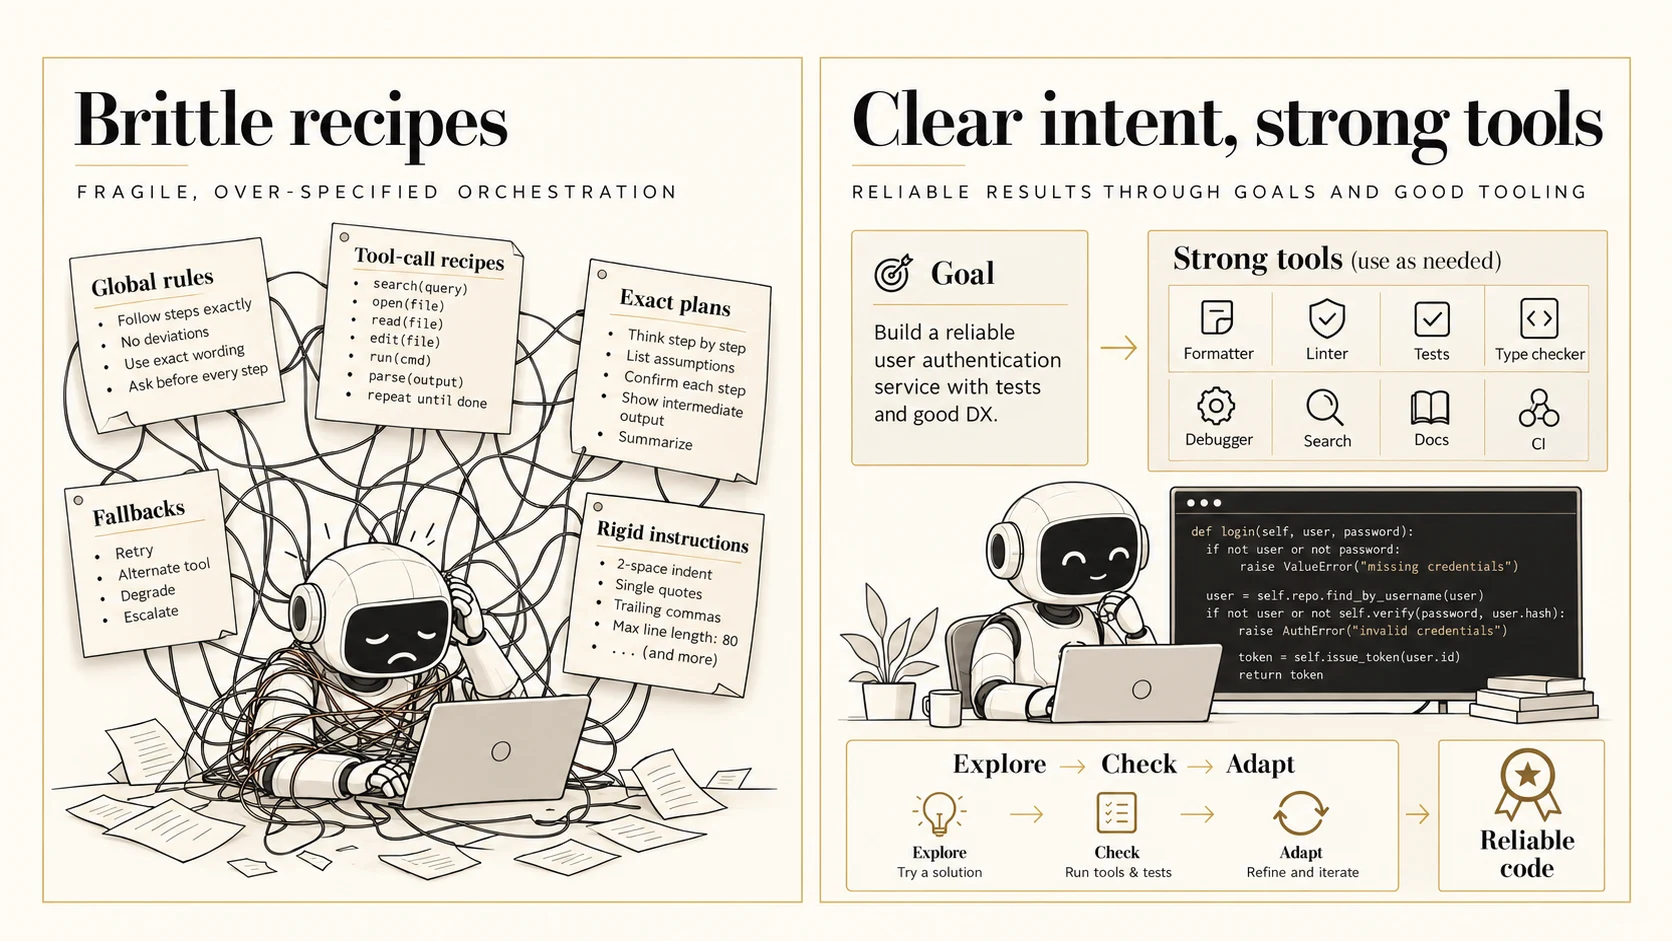
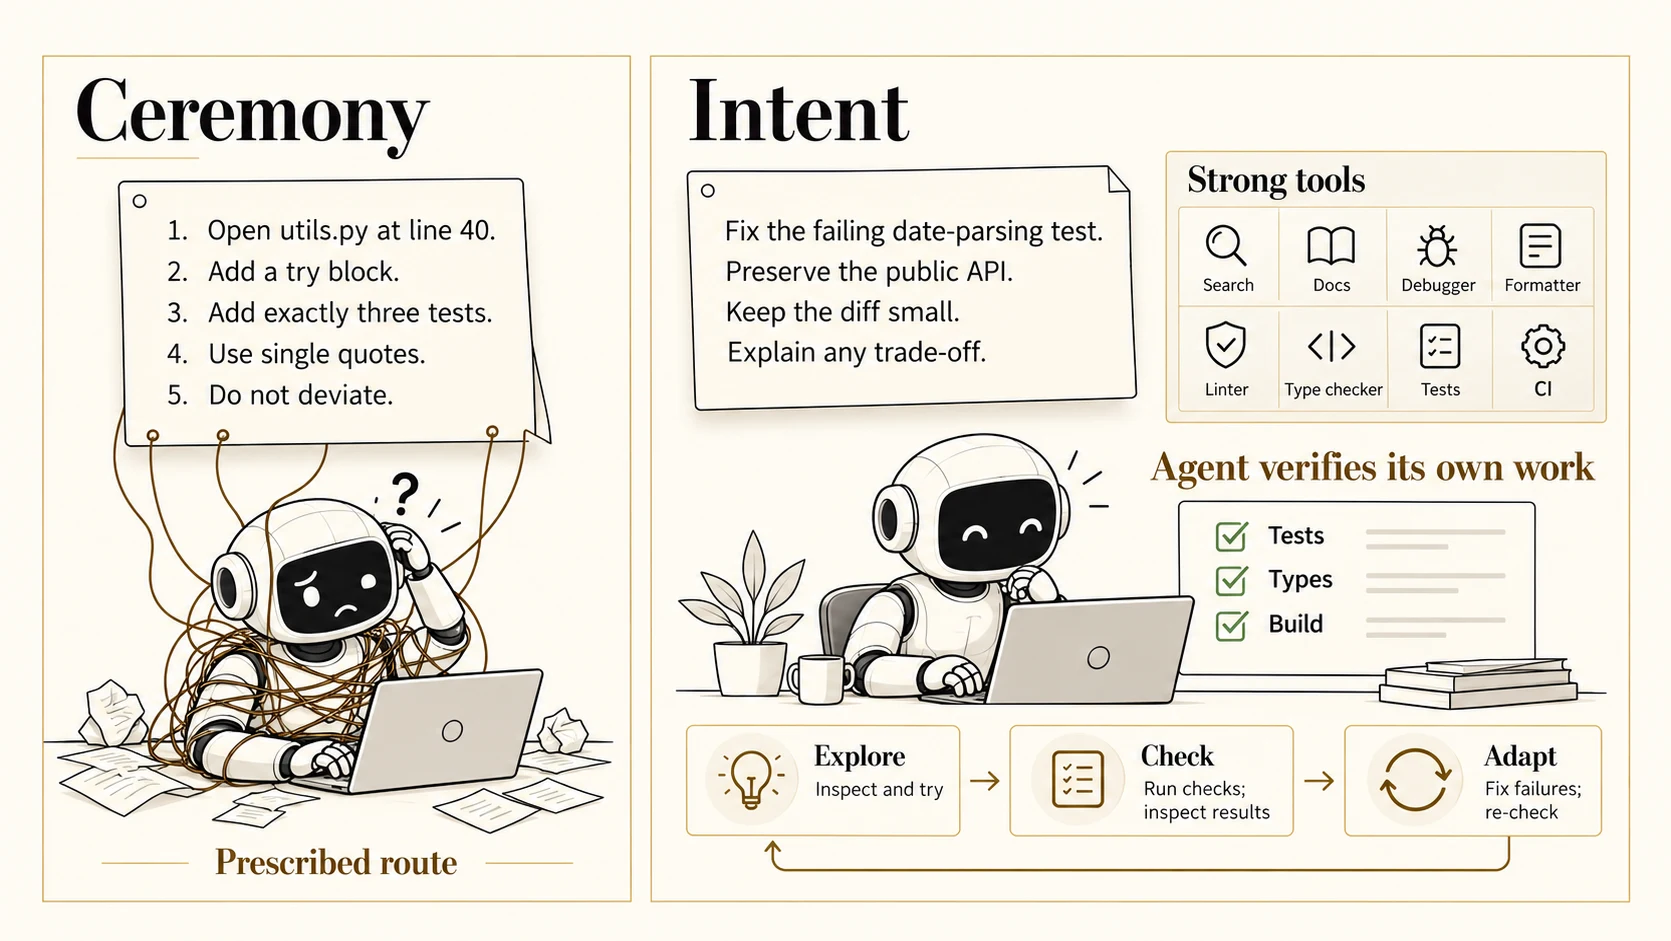
docs: refine rule 03 with verification focus
Rework the “Intent over ceremony” section to emphasise not over-prescribing implementation steps and explicitly require agent self-verification (run checks, inspect results, fix, and re-check). Update the slide lede, notes, and image alt text, regenerate the bitter-lesson illustration, and sync both llms-full files plus media prompt documentation with the new messaging.

Changed region(s): [[0.0311, 0.0308, 0.9647, 0.9862]]

diff --git a/media/README.md b/media/README.md
@@ -31,8 +31,34 @@ Two panels: left title "Without guardrails", a confused line-drawn robot amidst 
 
 ## bitter-lesson.webp
 
+The current revision uses only the previous `bitter-lesson.webp` as its edit
+target and style reference, with the following complete prompt.
+
 ```text
-Two panels: left title "Brittle recipes", a line-drawn robot tangled in fine black strings attached to papers labelled "Exact plans", "Tool-call recipes", "Global rules", "Fallbacks", "Rigid instructions". Right title "Clear intent, strong tools", the same calm robot working at a clean terminal, a goal card labelled "Goal", toolkit with exact labels "Formatter", "Linter", "Tests", "Type checker", "Debugger", "Search", "Docs", "CI". Show a simple genuine feedback loop labelled "Explore → Check → Adapt", leading to "Reliable code". Preserve distinction between brittle orchestration and clear goals with tool-supported iteration.
+Use case: infographic-diagram. Edit image 1, the existing "Intent over ceremony" presentation illustration. Keep its refined editorial visual identity: landscape 16:9, flat ivory #fdfaf3 background, warm stone #e9e5db square panels, near-black #141414 text and pen-and-ink robot drawings, restrained gold #dac284 hairlines and borders, dark brown #7d6020 for occasional text emphasis, elegant Bodoni/Didot serif headings, highly readable Montserrat-like sans-serif labels. Redesign the content and layout to incorporate two concrete prompting examples, strong tools, and explicit agent self-verification. Keep the figures expressive but professional; generous space, crisp projected-slide legibility. No overall slide title, watermark, glossy 3D, bright colours, gradients, tiny simulated code, or decorative clutter.
+
+Two side-by-side panels, left roughly 40% of width, right roughly 60%.
+LEFT heading exactly "Ceremony". Under it one large instruction sheet with five short lines, each clearly legible:
+"Open utils.py at line 40."
+"Add a try block."
+"Add exactly three tests."
+"Use single quotes."
+"Do not deviate."
+Below the sheet, a confused robot tangled in a few fine strings attached to the instruction sheet. Bottom caption exactly "Prescribed route".
+
+RIGHT heading exactly "Intent". At top one spacious brief, with this exact text on separate lines:
+"Fix the failing date-parsing test."
+"Preserve the public API."
+"Keep the diff small."
+"Explain any trade-off."
+Below the brief, show one compact tool tray headed "Strong tools" with readable labels "Search", "Docs", "Debugger", "Formatter", "Linter", "Type checker", "Tests", "CI". Use small restrained line icons if helpful; do not turn this into the largest element.
+Below, a calm, engaged robot actively inspecting check results at a laptop. A clearly visible results sheet next to the robot shows three short checked items: "Tests", "Types", "Build". Above or next to this scene, a prominent readable label exactly "Agent verifies its own work". Make the checking activity as important as the tool tray.
+
+At bottom of RIGHT panel only, ONE feedback loop drawn using three connected nodes in a horizontal row, arrow from first to second to third, and a clear return arrow from third back to first. Each node has its label ONCE, with a short supporting line:
+"Explore" / "Inspect and try"
+"Check" / "Run checks; inspect results"
+"Adapt" / "Fix failures; re-check"
+Do NOT add a second "Explore → Check → Adapt" heading anywhere. The words Explore, Check, and Adapt must each occur exactly once as node labels. Avoid a medal or a claim that checks guarantee reliable code. The central message is: give the model a clear outcome and constraints, strong tools, and responsibility to verify and iterate on its own work, rather than prescribing every implementation step. Text accuracy and legibility are essential.
 ```
 
 ## small-scope.webp
